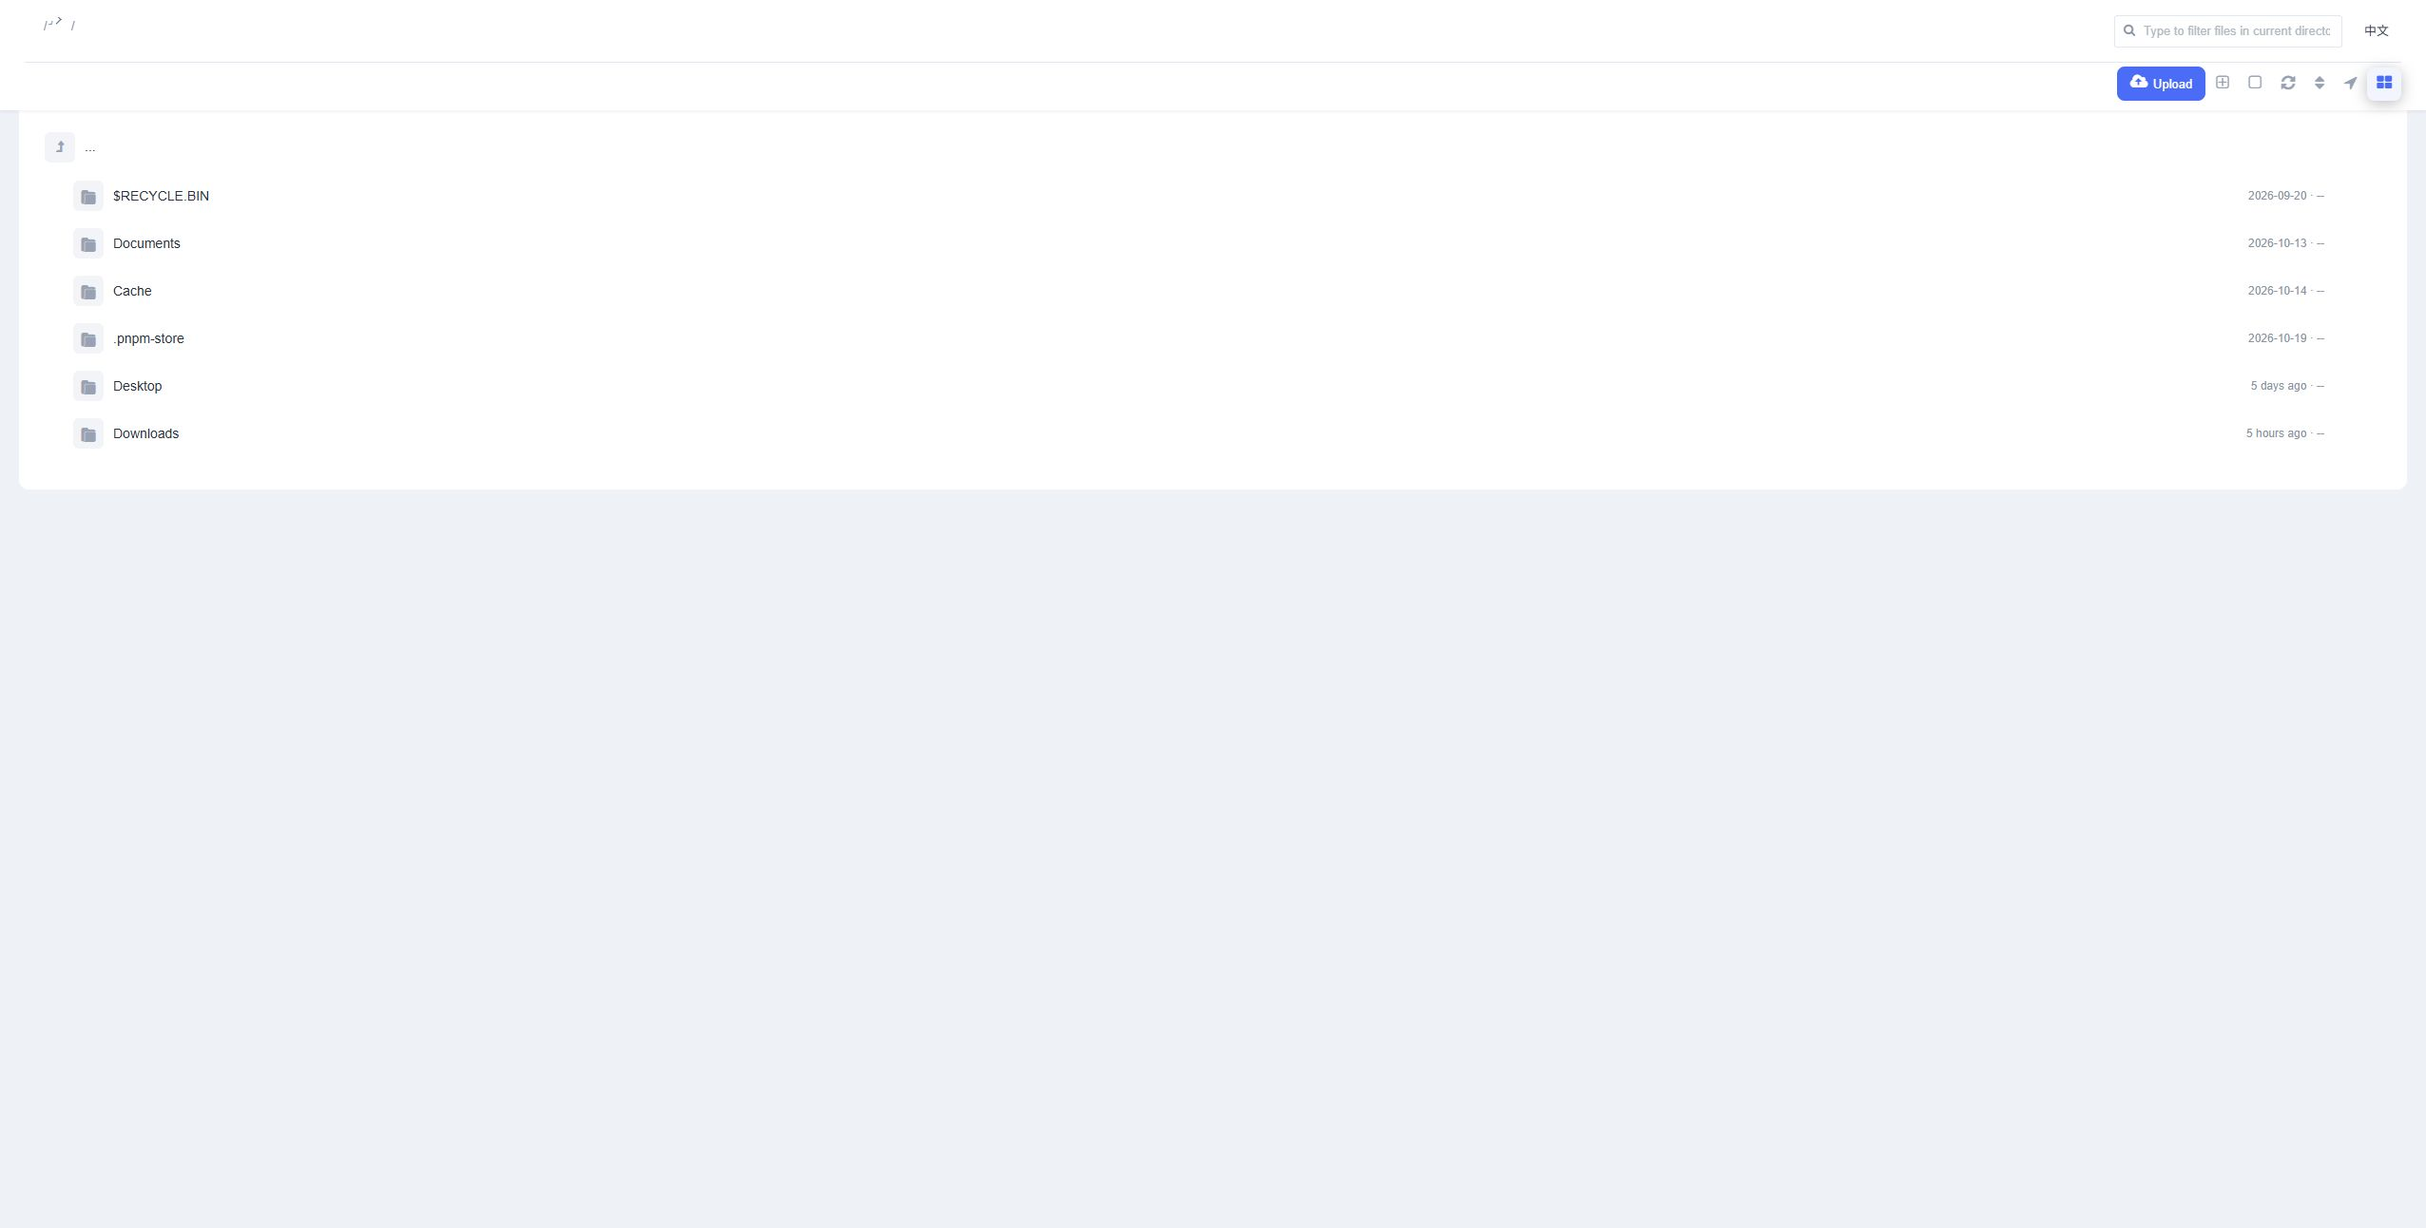
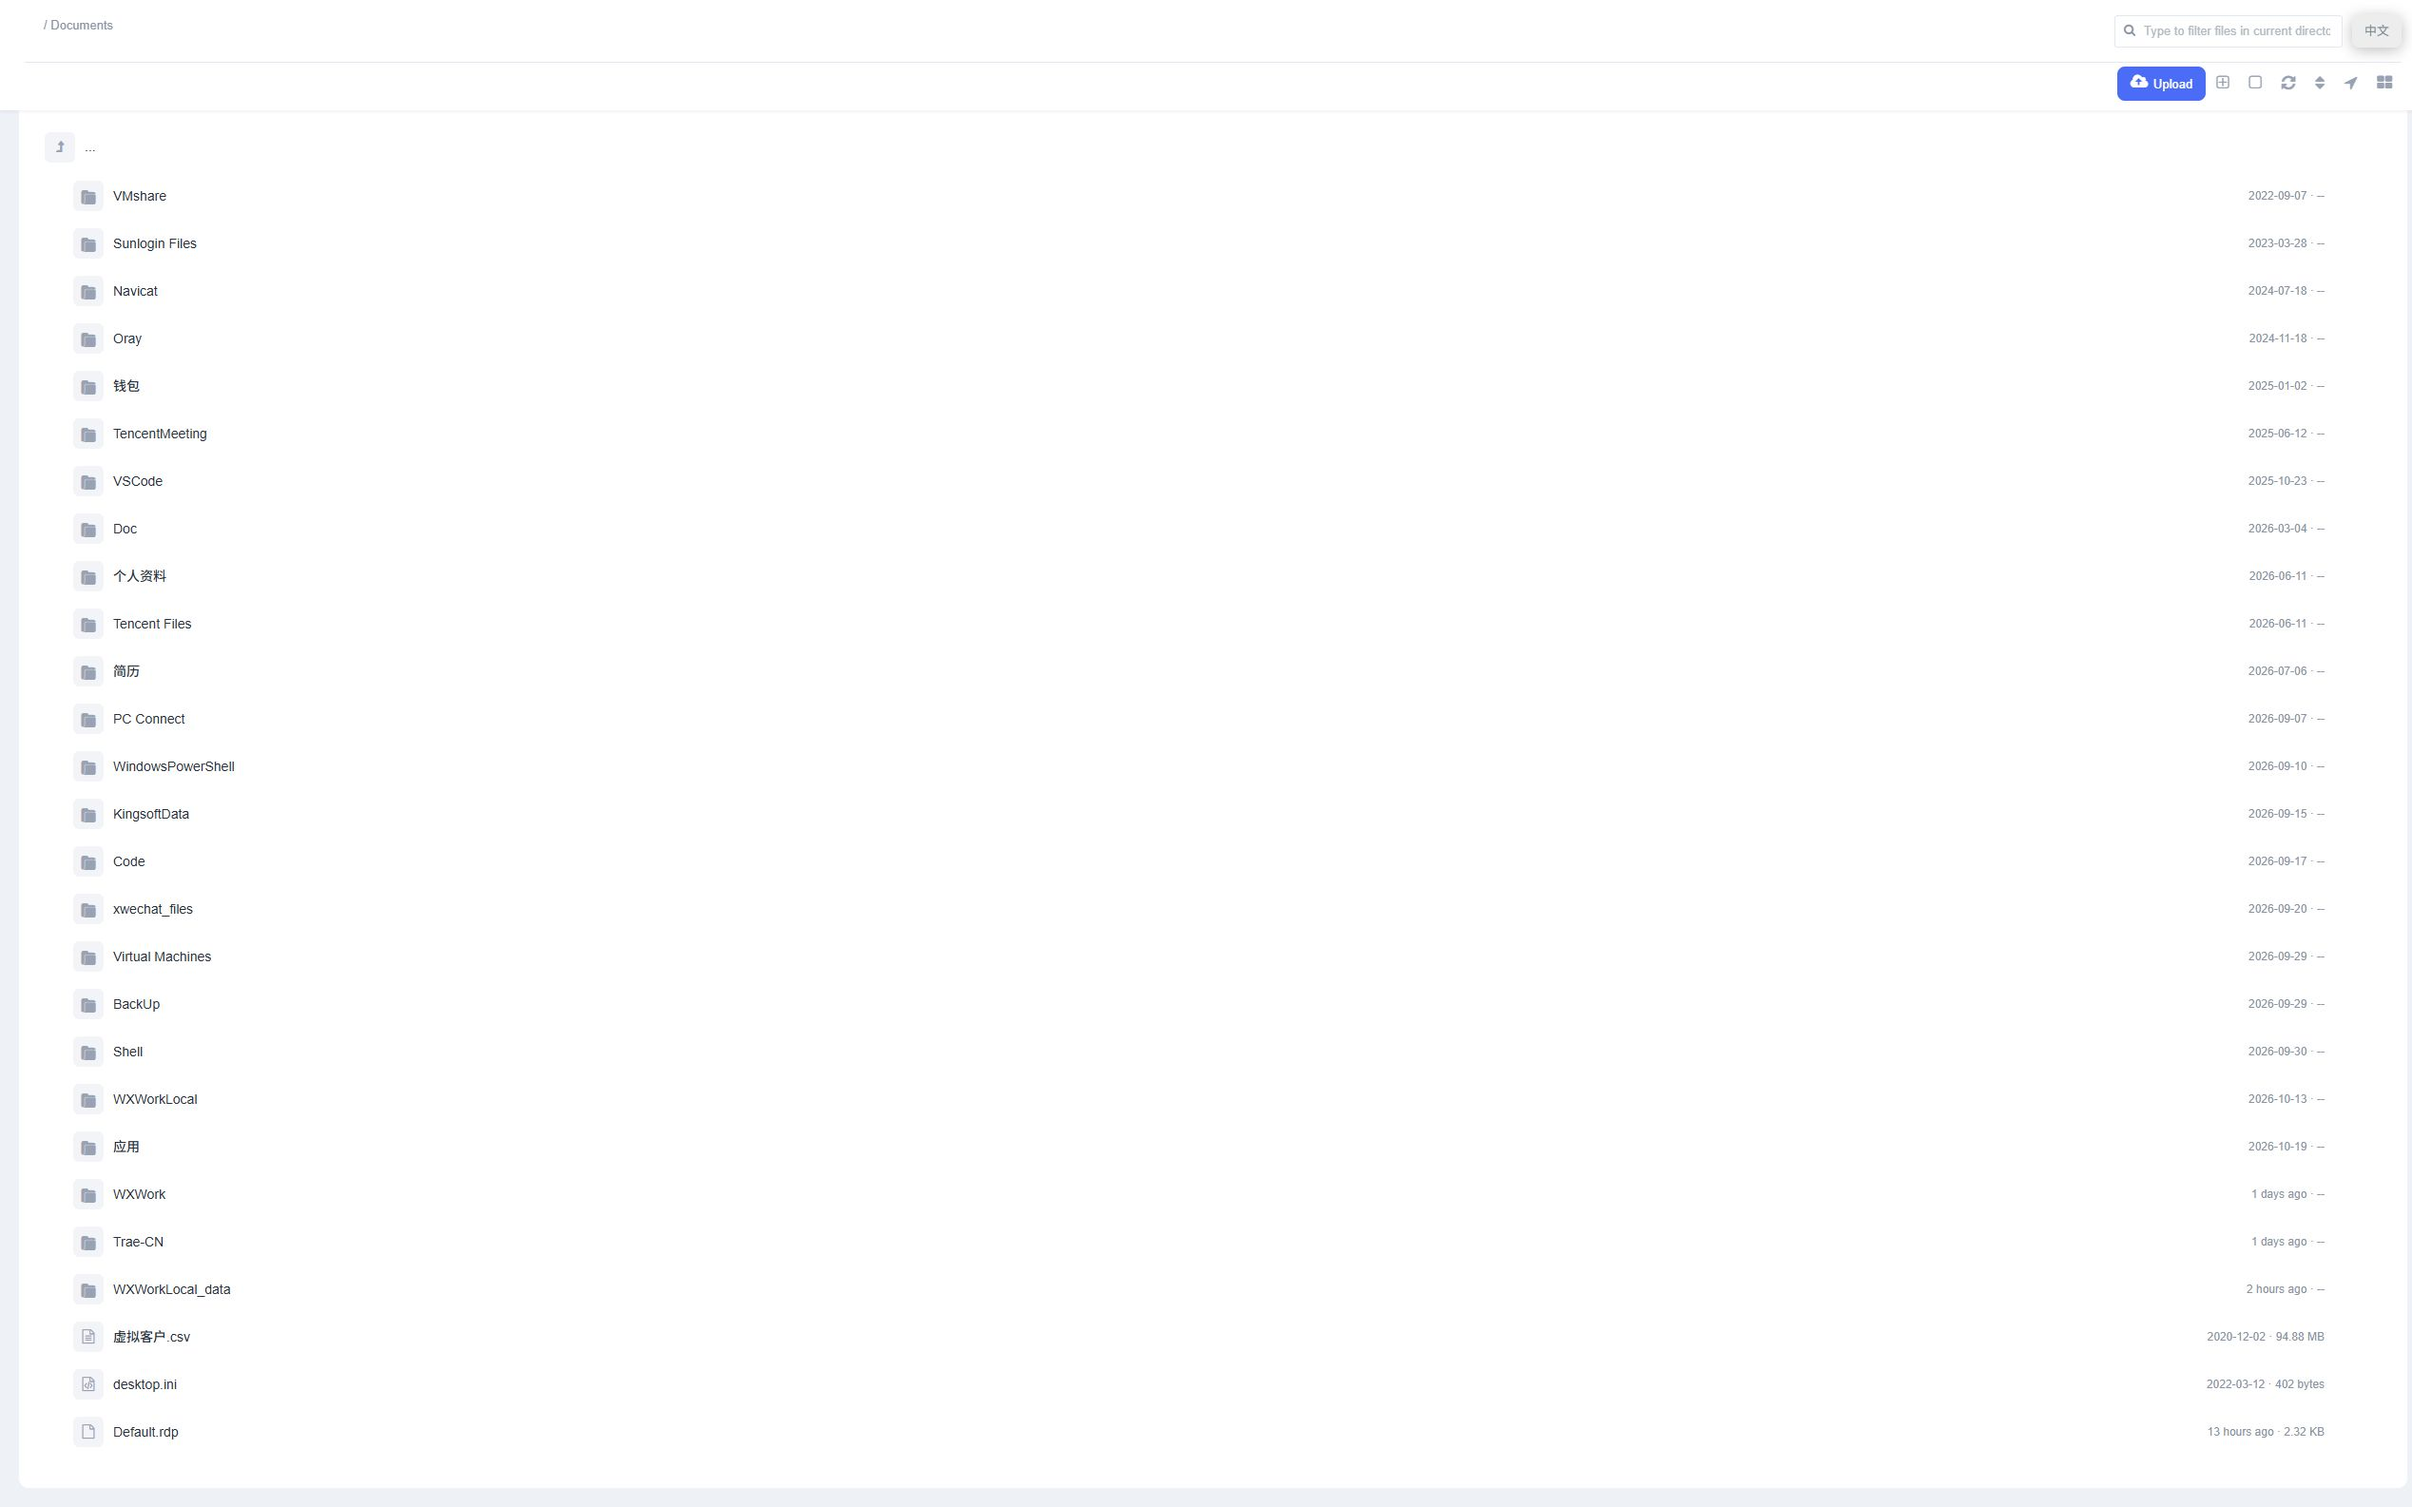
修复面包屑分隔符与重复根面包屑: 完整重置nifty边框画的分隔符改为输入的/; 规范curPath尾部斜杠避免根目录两枚/; CSS引用加版本号防端上缓存; 更新README截图

diff --git a/index.html b/index.html
@@ -14,7 +14,7 @@
     <link href="css/nifty-demo-icons.min.css" rel="stylesheet">
     <link href="plugins/font-awesome/css/font-awesome.min.css" rel="stylesheet">
     <link href="plugins/pace/pace.min.css" rel="stylesheet">
-    <link href="css/custom.css" rel="stylesheet">
+    <link href="css/custom.css?v=20261103b" rel="stylesheet">
 
     <style>
         .faicon {
@@ -92,7 +92,7 @@
             }
         }
 
-        var curPath = getStorage('curPath') || '';
+        var curPath = (getStorage('curPath') || '').replace(/\/+$/, '');
         var curDir;
         var fs = client();
 
@@ -512,7 +512,8 @@
             });
 
             $('.breadcrumb').empty();
-            var splpath = decodeUriSafe(curPath.replace(root, '')).split('/');
+            // 去掉尾部斜杠, 避免根路径(/)切出两个空段生成两枚 "/" 面包屑
+            var splpath = decodeUriSafe(curPath.replace(root, '')).replace(/\/+$/, '').split('/');
             var lipath = '';
             for(var i in splpath){
                 lipath += '/' + splpath[i];

diff --git a/css/custom.css b/css/custom.css
@@ -57,9 +57,24 @@ body {
 /* 隐藏面包屑横向滚动条, 靠滚轮/拖动查看 */
 #navbar .breadcrumb::-webkit-scrollbar { display: none; }
 #navbar .breadcrumb { scrollbar-width: none; }
+/* 分隔符用输入的 "/", 必须完整重置 nifty 用边框画箭头的方式
+   (content:"" + 右上边框方块 + rotate(45deg)), 否则斜杠会在旋转方块里变形 */
 #navbar .breadcrumb > li + li:before {
-    content: "›";
+    content: "/";
     color: var(--text-sub);
+    border: none;
+    width: auto;
+    height: auto;
+    display: inline;
+    position: static;
+    transform: none;
+    margin: 0;
+    padding: 0 4px;
+}
+/* 根面包屑本身是 "/", 第二枚前的分隔符会拼成 "//", 用空格代替 */
+#navbar .breadcrumb > li:nth-child(2):before {
+    content: "\00a0";
+    padding: 0;
 }
 #navbar .breadcrumb > .active {
     color: var(--text-main);

diff --git a/js/main.js b/js/main.js
@@ -17,7 +17,7 @@ if(rootParam !== null && rootParam !== ''){
     // 显式指定的 root 直接信任, 不做探测(跨域探测会因 CORS 误判)
     root = rootParam.trim().replace(/\/+$/, '');
     setStorage('root', root);
-    setStorage('curPath', '/');
+    setStorage('curPath', '');
 }
 
 // 探测 url 是否为可用的 WebDAV 服务端点
